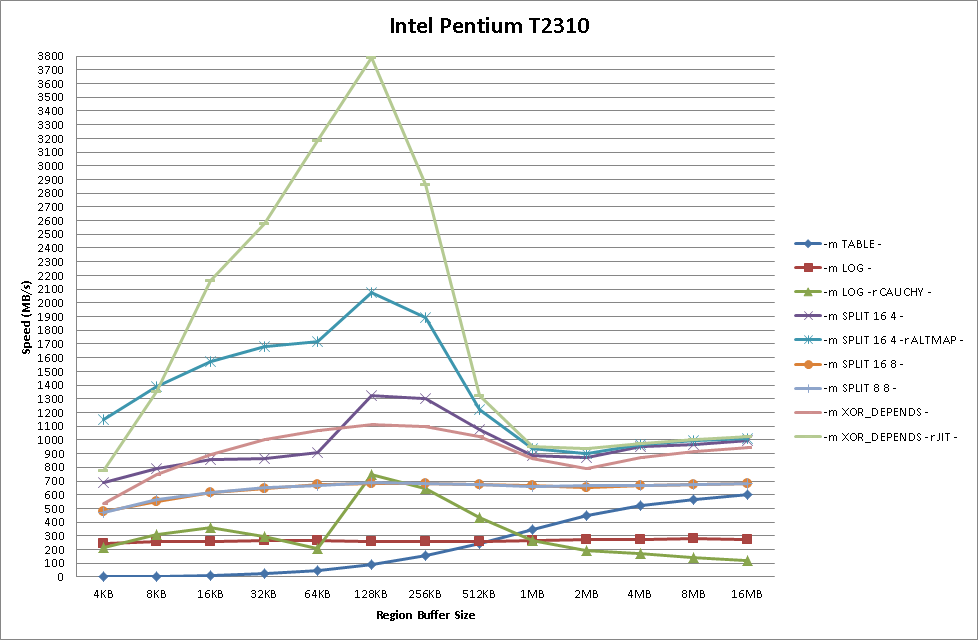
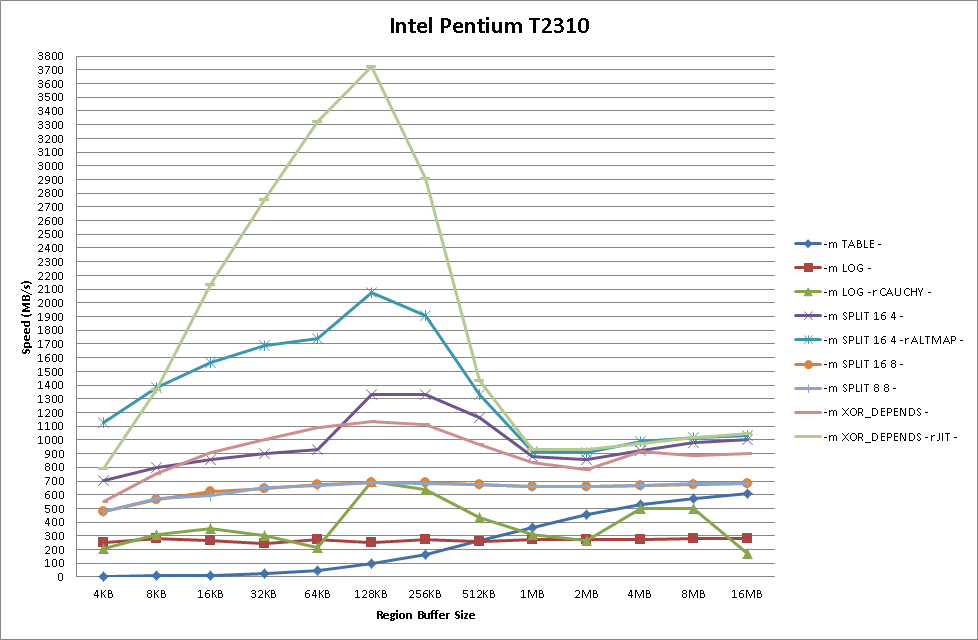
Update XOR_DEPENDS benchmarks, using more iterations; also add multi-threaded benchmarks

diff --git a/xor_depends/info.md b/xor_depends/info.md
@@ -231,8 +231,9 @@ Drawbacks
     this means that performance on 32-bit won’t be good as 64-bit due to less
     registers being available.
 
--   The general algorithm is just very complicated. I really like the
-    SPLIT(16,4) algorithm for its aesthetic simplicity and efficiency.
+-   Whilst the idea is simple, an optimised implementation is just very
+    complicated. I really like the SPLIT(16,4) algorithm for its aesthetic
+    simplicity and efficiency.
 
  
 
@@ -368,6 +369,21 @@ overhead of JIT rears its head though.
 
  
 
+Multi-Threaded Benchmarks
+-------------------------
+
+A small, rough alteration to the *gf\_time* tool to run tests in 4 threads.
+Region data is no longer randomised to try to keep cores maximally loaded with
+calculations we wish to benchmark.
+
+![](<AtomC2750mt.png>)
+
+![](<Phenom9950mt.png>)
+
+![](<CoreI2400mt.png>)
+
+ 
+
 Patch
 =====
 
@@ -395,4 +411,3 @@ Other things I included because I found useful, but you mightn’t:
 
 -   slightly improved speed of LUT generation for SPLIT\_TABLE(16,4) SSSE3
     versions by removing duplicate log table lookups
-
